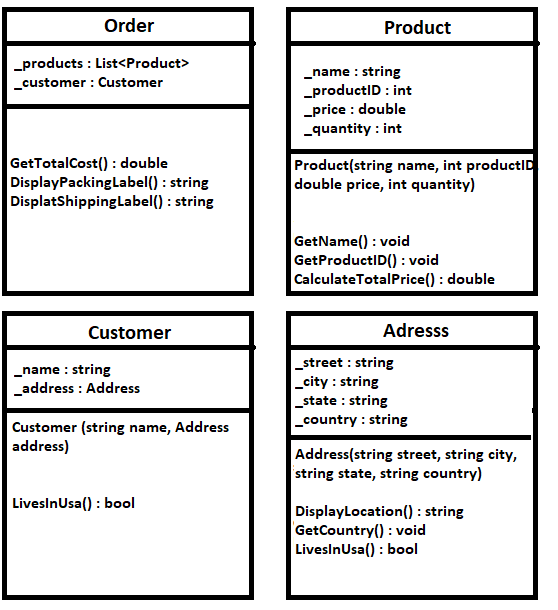
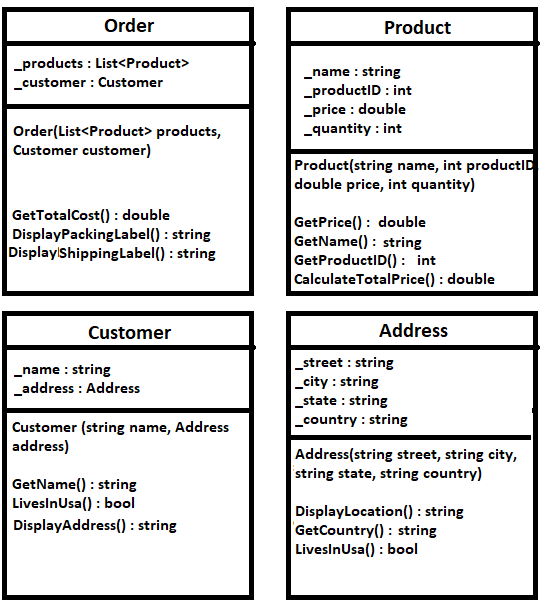
ordercart-program-almost

diff --git a/week04/OnlineOrdering/Program.cs b/week04/OnlineOrdering/Program.cs
@@ -3,7 +3,67 @@ using System;
 class Program
 {
     static void Main(string[] args)
-    {
-        Console.WriteLine("Hello World! This is the OnlineOrdering Project.");
+    {     
+        Console.WriteLine("Welcome to the Shopping Cart!");
+        Console.WriteLine("What is your name?");
+        string username = Console.ReadLine();
+
+        Console.WriteLine("Type the name of your street: ");
+        string street = Console.ReadLine();
+        Console.WriteLine("City:");
+        string city = Console.ReadLine();
+        Console.WriteLine("State:");
+        string state = Console.ReadLine();
+        Console.WriteLine("Country:");
+        string country = Console.ReadLine();
+
+        Address address = new Adresss(street, city, state, country);
+
+        Customer customer = new Customer(username, address);
+
+        Order order = new Order(userOrder, customer);
+
+        List<Product> productsCart = new List<Product>
+        {
+            new Product("Smartphone Case", 748392, 12.99, 0),
+            new Product("Wireless Bluetooth Headphones", 283640, 49.99, 0),
+            new Product("4K Ultra HD TV", 592740, 799.99, 0),
+            new Product("Yoga Mat", 124853, 22.50, 0),
+            new Product("Gaming Mouse", 937820, 29.99, 0),
+            new Product("Electric Coffee Maker", 483920, 49.00, 0),
+            new Product("LED Desk Lamp", 930184, 19.99, 0),
+            new Product("Portable Power Bank", 182736, 29.99, 0),
+            new Product("Leather Wallet", 748201, 39.99, 0),
+            new Product("Bluetooth Speaker", 374820, 59.99, 0)
+        };
+
+        List<Product> userOrder = new List<Product>();
+
+        int userOption = 0;
+        while (userOption != 4){
+            Console.Clear();
+
+            Console.WriteLine("Shopping Cart.")
+            foreach (Product product in productsCart){
+                int i = 1;
+                string productsInfo = $"Product: {product.GetName()} - Price: {product.GetPrice()}";
+
+                Console.WriteLine(productInfo);
+                i++;
+            }
+
+            Console.WriteLine("Select one of the following options:");
+            Console.WriteLine("1. Add Item");
+            Console.WriteLine("2. Remove Item.");
+            Console.WriteLine("3. See current order.")
+            Console.WriteLine("4. Finish order");
+
+            userOption =  int.Parse(Console.ReadLine());
+
+            if(userOption == 1){
+
+            }
+
+        }        
     }
 }

diff --git a/week04/OnlineOrdering/Order.cs b/week04/OnlineOrdering/Order.cs
@@ -1,0 +1,44 @@
+using System;
+using system.Collections.Generic;
+
+public class Order{
+    private List<Product> _products = new List<Product>();
+    private Customer _customer = new Customer("", Address address);
+
+    public Order(List<Product> products, Customer customer){
+        _products = products;
+        _customer = customer;
+    }
+
+    public double GetTotalCost(){
+        double totalCost = 0;
+        int shippingCost = 0;
+
+        foreach (Product product in _products){
+            totalCost += product.CalculateTotalPrice();
+        }
+
+        if(_customer.LivesInUsa()){
+            shippingCost = 5;
+        } else{
+            shippingCost = 35;
+        }
+
+        return $"Total Cost = ${totalCost + shippingCost}";
+    }
+
+    public string DisplayPackingLabel(){
+        string packingLabel = "";
+
+        foreach (Product product in _products){
+            packingLabel += $"Product: {product.GetName()} - ID: {product.GetProductID()}\n";
+        }
+
+        return packingLabel;
+    }
+
+    public string DisplayShippingLabel(){
+        string shippingLabel = $"Name: {_customer.GetName()} - Address: {_customer.DisplayAddress()}";
+    }
+
+}

diff --git a/week04/OnlineOrdering/Address.cs b/week04/OnlineOrdering/Address.cs
@@ -1,0 +1,32 @@
+using System;
+
+public class Address{
+    private string _street;
+    private string _city;
+    private string _state;
+    private string _country;
+
+    public Address(string street, string city, string state, string country){
+        _street = street;
+        _city = city;
+        _state = state;
+        _country = country;
+    }
+
+    public string GetCountry(){
+        return _country;
+    }
+
+    public bool LivesInUsa(){
+        if (_country.ToLower() == "usa"){
+            return true;
+        } else{
+            return false;
+        }
+    }
+
+    public string DisplayLocation(){
+        return $"{_street}, {_city}, {_state}, {GetCountry()}";
+    }
+
+}

diff --git a/week04/OnlineOrdering/Product.cs b/week04/OnlineOrdering/Product.cs
@@ -1,0 +1,31 @@
+using System;
+
+public class Product{
+    private string _name;
+    private int _productID;
+    private double _price;
+    private int _quantity;
+
+    public Product(string name, int productID, double price, int quantity){
+        _name = name;
+        _productID = productID;
+        _price = price;
+        _quantity = quantity;
+    }
+
+    public double GetPrice(){
+        return _price;
+    }
+
+    public string GetName(){
+        return _name;
+    }
+
+    public int GetProductID(){
+        return _productID;
+    }
+
+    public double CalculateTotalPrice(){
+        return _price * _quantity;
+    }
+}

diff --git a/week04/OnlineOrdering/Customer.cs b/week04/OnlineOrdering/Customer.cs
@@ -1,0 +1,29 @@
+using System;
+
+public class Customer{
+    private string _name;
+    private Address _address;
+
+    public Customer(string name, Address address){
+        _name = name;
+        _address = address
+    }
+
+    public string GetName(){
+        return _name;
+    }
+
+    public bool LivesInUsa(){
+        if (_address.LivesInUsa()){
+            return true;
+        } else{
+            return false;
+        }
+    }
+
+    public string DisplayAddress(){
+        return _address.DisplayLocation();
+    }
+
+
+}
